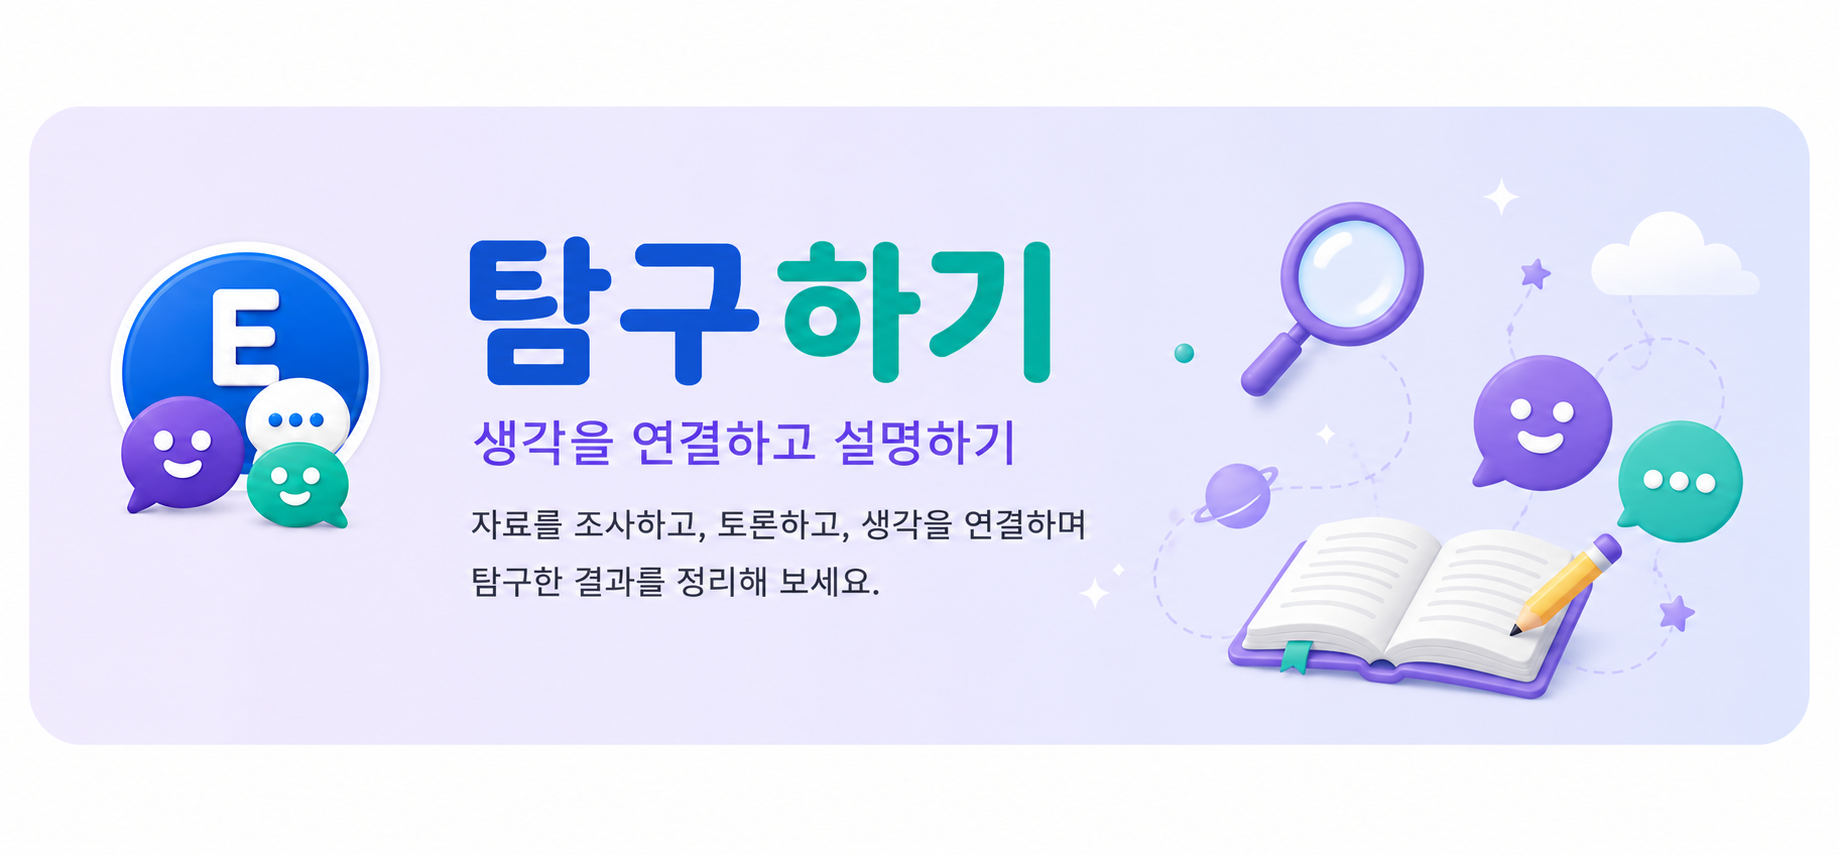
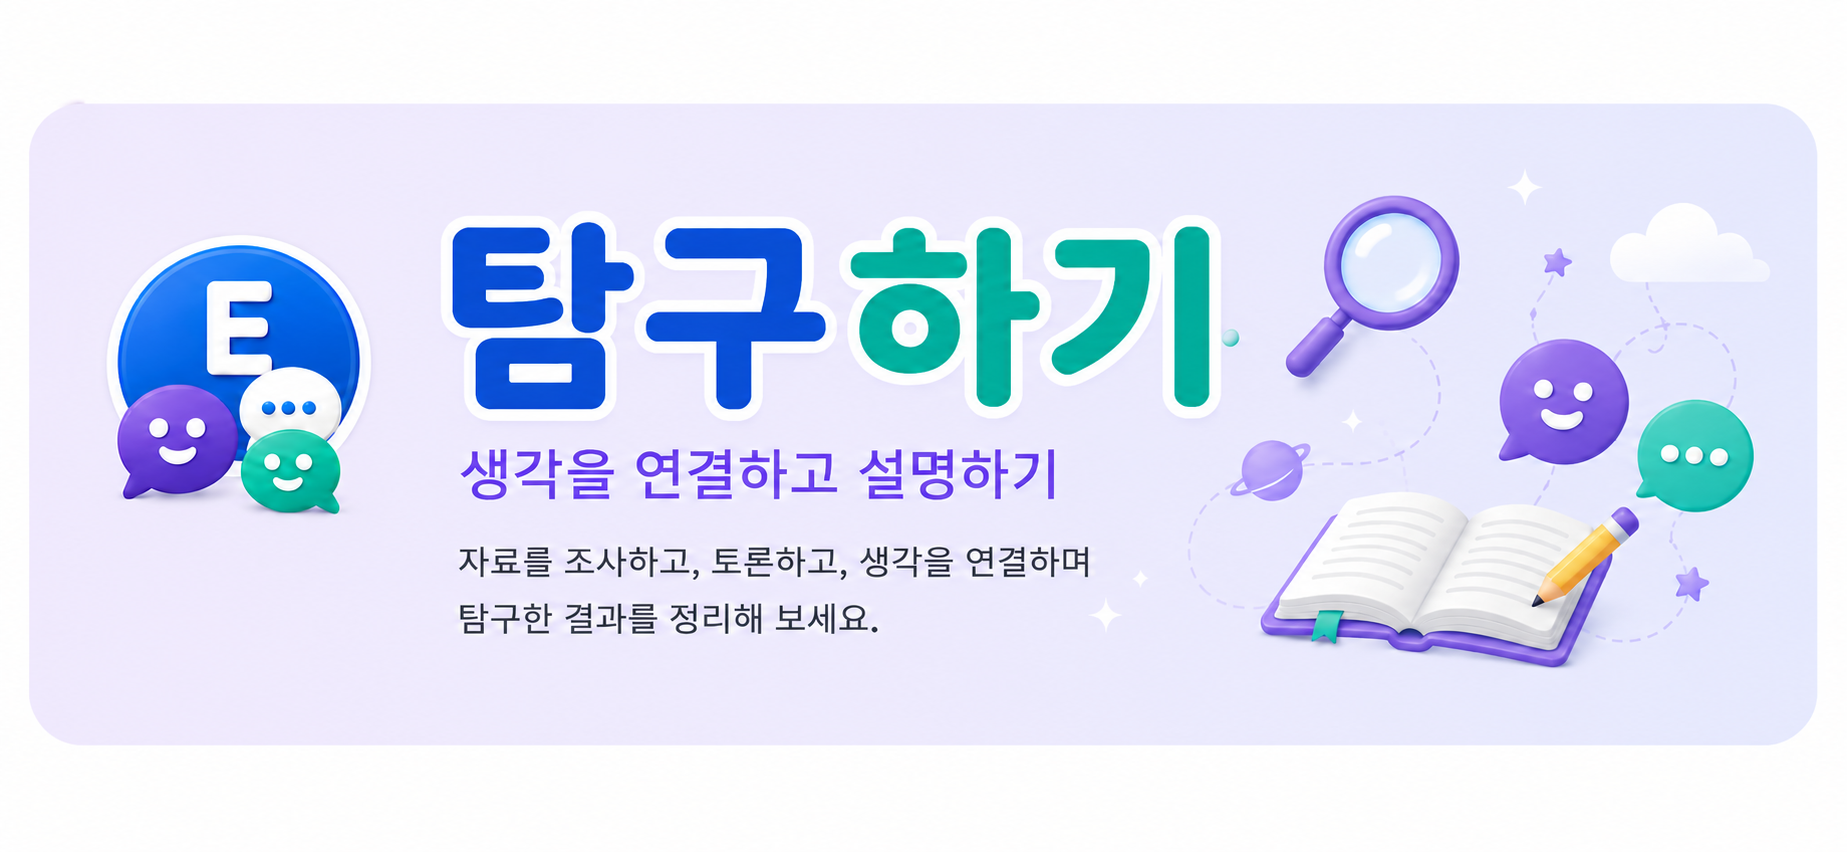
feat: explore.png 교체 + 프로젝트 Select·탐구방법 토글·질문 높이 절반

diff --git a/app/explore/page.tsx b/app/explore/page.tsx
@@ -12,16 +12,16 @@ function countSentences(text: string): number {
 }
 
 export default function ExplorePage() {
-  const [classRoom,   setClassRoom]   = useState('');
-  const [name,        setName]        = useState('');
-  const [project,     setProject]     = useState('');
-  const [projectOpen, setProjectOpen] = useState(false);
-  const [question,    setQuestion]    = useState('');
-  const [methods,     setMethods]     = useState<string[]>([]);
-  const [methodEtc,   setMethodEtc]   = useState('');
-  const [process,     setProcess]     = useState('');
-  const [explanation, setExplanation] = useState('');
-  const [insight,     setInsight]     = useState('');
+  const [classRoom,    setClassRoom]    = useState('');
+  const [name,         setName]         = useState('');
+  const [project,      setProject]      = useState('');
+  const [question,     setQuestion]     = useState('');
+  const [methods,      setMethods]      = useState<string[]>([]);
+  const [methodsOpen,  setMethodsOpen]  = useState(false);
+  const [methodEtc,    setMethodEtc]    = useState('');
+  const [process,      setProcess]      = useState('');
+  const [explanation,  setExplanation]  = useState('');
+  const [insight,      setInsight]      = useState('');
 
   const [strength,     setStrength]     = useState('');
   const [hints,        setHints]        = useState<string[]>([]);
@@ -62,11 +62,17 @@ export default function ExplorePage() {
   }
 
   function handleSubmit() {
-    if (!classRoom) { alert('학년/반을 선택해주세요!'); return; }
-    if (!project)   { alert('프로젝트를 선택해주세요!'); return; }
+    if (!classRoom)   { alert('학년/반을 선택해주세요!'); return; }
+    if (!project)     { alert('프로젝트를 선택해주세요!'); return; }
     if (!name.trim()) { alert('이름을 입력해주세요!'); return; }
     alert('탐구 기록이 작성되었습니다. 다음 단계에서 저장 기능을 연결합니다.');
   }
+
+  const methodLabel = methods.length === 0
+    ? '선택해주세요'
+    : methods.length === 1
+      ? methods[0]
+      : `${methods[0]} 외 ${methods.length - 1}개`;
 
   return (
     <div className="min-h-screen px-4 pt-2 pb-8"
@@ -104,74 +110,70 @@ export default function ExplorePage() {
           </div>
         </Card>
 
-        {/* 프로젝트 토글 */}
+        {/* 프로젝트 — Select (learn·question 페이지와 동일) */}
         <Card>
-          <button type="button" onClick={() => setProjectOpen(o => !o)}
-            className="w-full flex items-center justify-between cursor-pointer"
-            style={{ background: 'none', border: 'none', padding: 0 }}>
-            <span className="font-bold text-[#4a4a6a] text-[0.9rem]">프로젝트</span>
-            <span className="flex items-center gap-2 text-sm font-semibold"
-              style={{ color: project ? '#5c35cc' : '#aaa' }}>
-              {project || '선택해주세요'}
-              <span className="text-[#aaa] text-xs transition-transform"
-                style={{ display: 'inline-block', transform: projectOpen ? 'rotate(180deg)' : 'rotate(0deg)' }}>▼</span>
-            </span>
-          </button>
-          {projectOpen && (
-            <div className="flex flex-col gap-1.5 mt-2.5">
-              {PROJECT_LIST.map(p => (
-                <button key={p} type="button"
-                  onClick={() => { setProject(p); setProjectOpen(false); }}
-                  className="w-full text-left px-4 py-2.5 rounded-xl text-sm font-semibold border-2 cursor-pointer transition-all"
-                  style={project === p
-                    ? { background: '#ede9fe', borderColor: '#667eea', color: '#5c35cc' }
-                    : { background: '#f8f8fc', borderColor: '#e0e0f0', color: '#555' }}>
-                  {p}
-                </button>
-              ))}
-            </div>
-          )}
+          <Label>프로젝트</Label>
+          <Select value={project} onChange={e => setProject(e.target.value)}>
+            <option value="">프로젝트를 선택하세요</option>
+            {PROJECT_LIST.map(v => <option key={v}>{v}</option>)}
+          </Select>
         </Card>
 
-        {/* 탐구 질문(좌) + 탐구 방법(우) 통합 카드 */}
+        {/* 탐구 질문(좌) + 탐구 방법 토글(우) */}
         <Card>
           <div className="grid grid-cols-2 gap-3 items-start">
+
             {/* 좌: 탐구 질문 */}
-            <div className="flex flex-col h-full">
+            <div className="flex flex-col">
               <Label>탐구 질문</Label>
               <textarea value={question} onChange={e => setQuestion(e.target.value)}
                 placeholder="지구의 자전 방향이 바뀌면 어떤 일이 일어날까?"
-                className="flex-1 w-full border-2 border-[#c5c9f0] rounded-xl p-2.5 text-sm text-gray-700 focus:outline-none focus:border-[#667eea] resize-none leading-relaxed transition-colors"
-                style={{ minHeight: '180px' }} />
+                className="w-full border-2 border-[#c5c9f0] rounded-xl p-2.5 text-sm text-gray-700 focus:outline-none focus:border-[#667eea] resize-none leading-relaxed transition-colors"
+                style={{ minHeight: '90px' }} />
             </div>
 
-            {/* 우: 탐구 방법 */}
+            {/* 우: 탐구 방법 토글 */}
             <div>
-              <Label>탐구 방법 <span className="text-[10px] font-normal text-[#bbb]">복수 선택</span></Label>
-              <div className="flex flex-col gap-1.5">
-                {METHODS.map(m => {
-                  const checked = methods.includes(m);
-                  return (
-                    <button key={m} type="button" onClick={() => toggleMethod(m)}
-                      className="flex items-center gap-2 px-2.5 py-2 rounded-xl border-2 text-sm font-semibold text-left cursor-pointer transition-all"
-                      style={checked
-                        ? { background: '#ede9fe', borderColor: '#667eea', color: '#5c35cc' }
-                        : { background: '#f8f8fc', borderColor: '#e0e0f0', color: '#666' }}>
-                      <span className="w-4 h-4 rounded border-2 flex items-center justify-center shrink-0 transition-colors"
-                        style={checked ? { borderColor: '#667eea', background: '#667eea' } : { borderColor: '#ccc', background: 'white' }}>
-                        {checked && <span className="text-white text-[9px] font-black leading-none">✓</span>}
-                      </span>
-                      {m}
-                    </button>
-                  );
-                })}
-              </div>
-              {methods.includes('기타') && (
-                <input type="text" value={methodEtc} onChange={e => setMethodEtc(e.target.value)}
-                  placeholder="직접 입력"
-                  className="mt-1.5 w-full border-2 border-[#c5c9f0] rounded-xl p-2 text-sm text-gray-700 focus:outline-none focus:border-[#667eea] transition-colors" />
+              <Label>탐구 방법</Label>
+              {/* 토글 헤더 */}
+              <button type="button" onClick={() => setMethodsOpen(o => !o)}
+                className="w-full flex items-center justify-between px-3 py-2.5 rounded-xl border-2 text-sm cursor-pointer transition-all"
+                style={methods.length > 0
+                  ? { background: '#ede9fe', borderColor: '#667eea', color: '#5c35cc' }
+                  : { background: '#f8f8fc', borderColor: '#e0e0f0', color: '#aaa' }}>
+                <span className="font-semibold truncate">{methodLabel}</span>
+                <span className="text-xs ml-1 shrink-0 transition-transform"
+                  style={{ display: 'inline-block', transform: methodsOpen ? 'rotate(180deg)' : 'rotate(0deg)' }}>▼</span>
+              </button>
+
+              {/* 펼쳐진 목록 */}
+              {methodsOpen && (
+                <div className="flex flex-col gap-1.5 mt-1.5">
+                  {METHODS.map(m => {
+                    const checked = methods.includes(m);
+                    return (
+                      <button key={m} type="button" onClick={() => toggleMethod(m)}
+                        className="flex items-center gap-2 px-2.5 py-2 rounded-xl border-2 text-sm font-semibold text-left cursor-pointer transition-all"
+                        style={checked
+                          ? { background: '#ede9fe', borderColor: '#667eea', color: '#5c35cc' }
+                          : { background: '#f8f8fc', borderColor: '#e0e0f0', color: '#666' }}>
+                        <span className="w-4 h-4 rounded border-2 flex items-center justify-center shrink-0"
+                          style={checked ? { borderColor: '#667eea', background: '#667eea' } : { borderColor: '#ccc', background: 'white' }}>
+                          {checked && <span className="text-white text-[9px] font-black leading-none">✓</span>}
+                        </span>
+                        {m}
+                      </button>
+                    );
+                  })}
+                  {methods.includes('기타') && (
+                    <input type="text" value={methodEtc} onChange={e => setMethodEtc(e.target.value)}
+                      placeholder="직접 입력"
+                      className="w-full border-2 border-[#c5c9f0] rounded-xl p-2 text-sm text-gray-700 focus:outline-none focus:border-[#667eea] transition-colors" />
+                  )}
+                </div>
               )}
             </div>
+
           </div>
         </Card>
 
